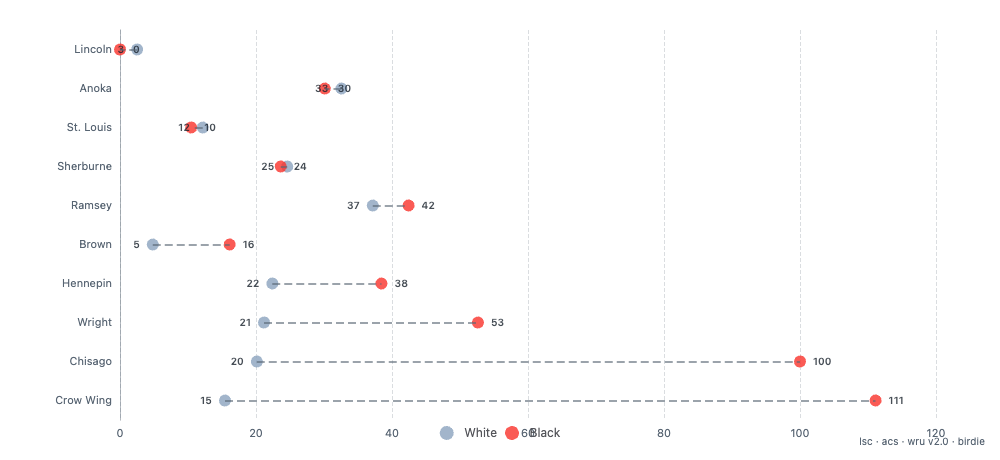
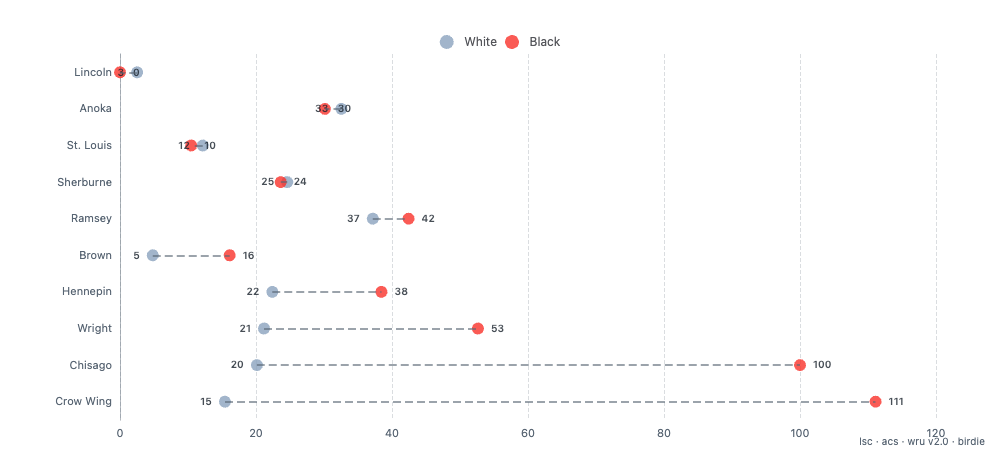
Place chart legends explicitly instead of inheriting the ECharts 6 default
echarts4r 0.5.0 bundles ECharts 6, which moved the legend default to
bottom-center. Every chart that left the position to echarts started printing
its legend across the x-axis labels, or across the squares on a waffle. The
rendered option confirms it: a chart that sets no position comes back with
legend[0].bottom = 15, hidden legends included.

Charts now state the position themselves. A top legend sits in the strip
between the title and the plot, and the plot gives up that row rather than
sharing it. The title headroom rule that nt_chart() already had is factored
into .nt_title_head() and reused, so a legend never lands on a title, and a
chart with no legend keeps the headroom it had.

Covers nt_chart() (whose documented legend_pos = "top" default was rendering
at the bottom), the .nt_cat_chart_style() family (nt_bar, nt_lollipop,
nt_dumbbell, nt_range, nt_stacked_bar), nt_scatter(), and nt_waffle().

Three vignette figures had shipped showing the bug and are regenerated:
chart-stacked-renters, chart-dumbbell-race, chart-waffle-race. The rest were
rebuilt byte-identical, since the house style's line charts use end labels
rather than a legend.

Measured in a headless browser rather than eyeballed. Titled charts across
all five affected types now clear their legend by 24px where the stacked bar
previously overlapped its title by 2px. Full suite 615 passing.

Issue #19.

diff --git a/NEWS.md b/NEWS.md
@@ -13,6 +13,17 @@
   `nt_range()`, `nt_stacked_bar()`, `nt_scatter()`, `nt_slope()`, and
   `nt_waffle()`.
 
+* Legends no longer render on top of the axis labels (issue #19). echarts4r
+  0.5.0 bundles ECharts 6, which moved the legend default to bottom-center, so
+  every chart that left the position to echarts started printing its legend
+  across the x-axis labels, or across the squares on a waffle. Charts now state
+  the position themselves: a top legend sits in the strip between the title and
+  the plot, and the plot gives up that row instead of sharing it. Affects
+  `nt_chart()` (whose documented `legend_pos = "top"` default was rendering at
+  the bottom), `nt_bar()`, `nt_lollipop()`, `nt_dumbbell()`, `nt_range()`,
+  `nt_stacked_bar()`, `nt_scatter()`, and `nt_waffle()`. Charts with no legend
+  keep the headroom they had.
+
 * `nt_chart()` now caps the value axis at 100% for normalized (100%) stacked
   percent bars, instead of letting ECharts round up to a phantom 120% ceiling.
   A new `y_max` argument overrides the cap (or caps any chart); percent charts
